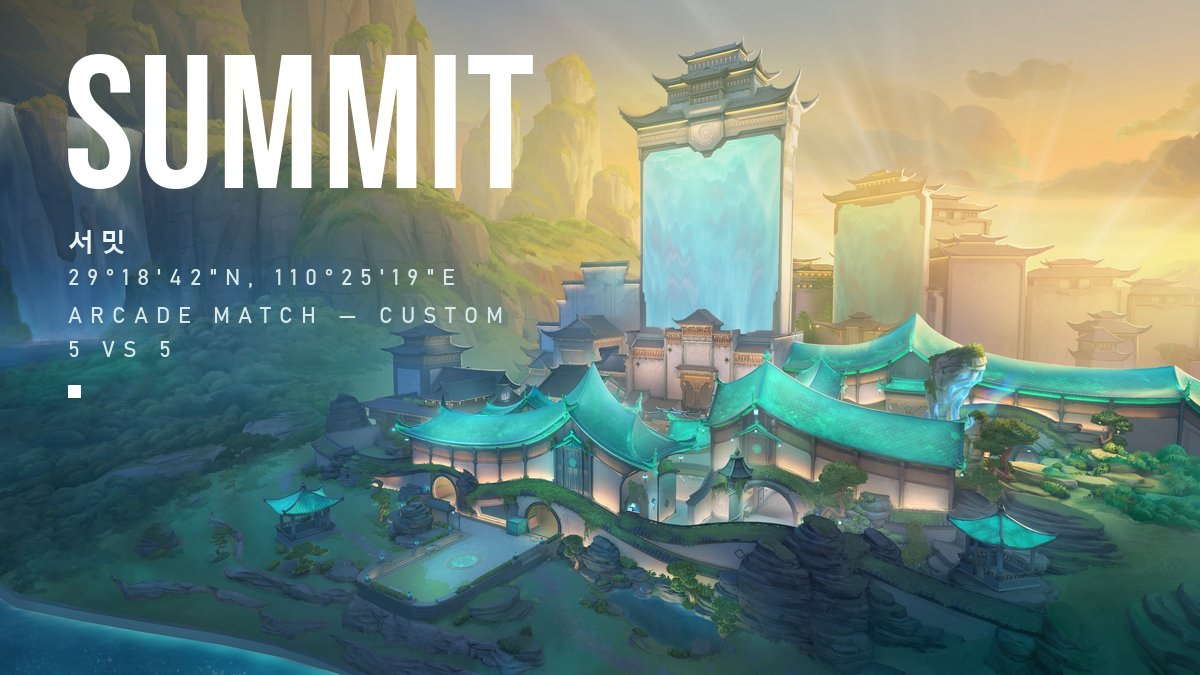
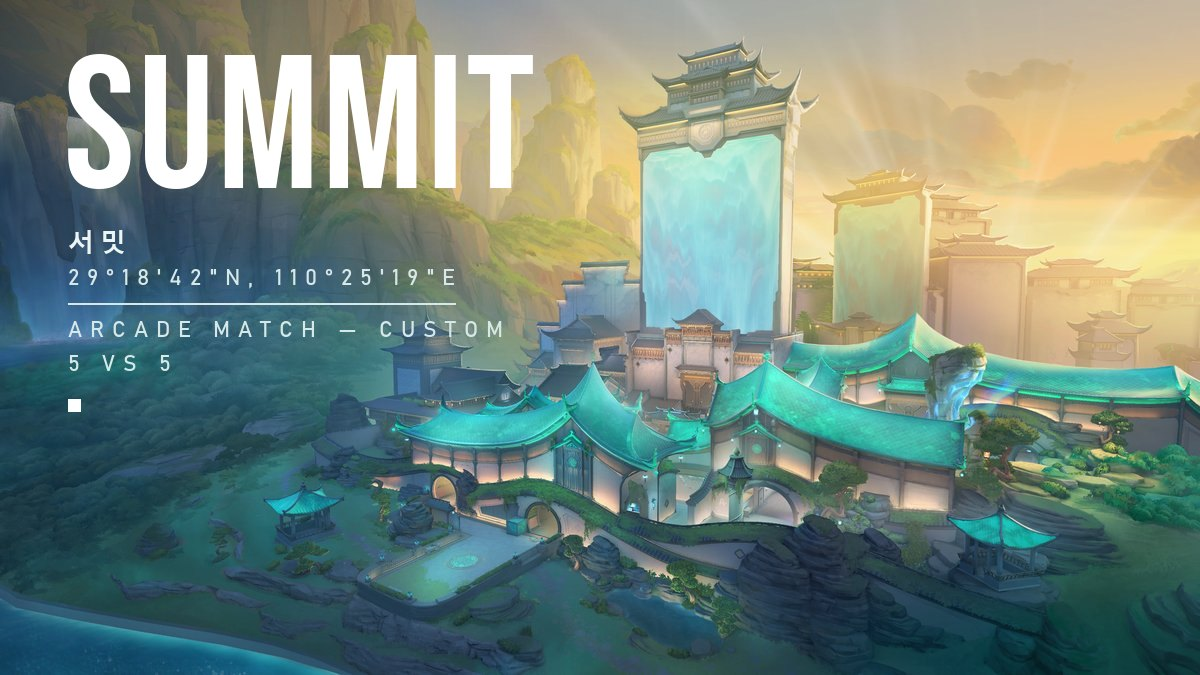
발로란트 맵 결과 이미지: 좌표 줄 밑에 구분선 추가

Changed region(s): [[0.0308, 0.4356, 0.2775, 0.6222], [0.3083, 0.4356, 0.4317, 0.4978]]

diff --git a/scripts/맵결과이미지.py b/scripts/맵결과이미지.py
@@ -303,8 +303,9 @@ def valorant(im, key, name):
     spaced(draw, (x0 + 4, base), name, kofont, (236, 244, 244, 235), 6)               # 한국어 이름(자간 넓게)
     y = base + 44
     if key in COORDS:                                                                          # 로딩 화면의 좌표 줄(맵의 실제 위치)
-        spaced(draw, (x0 + 4, y), COORDS[key], sub, (214, 232, 232, 215), 8)
-        y += 38
+        w = spaced(draw, (x0 + 4, y), COORDS[key], sub, (214, 232, 232, 215), 8)
+        draw.rectangle([x0 + 4, y + 36, x0 + 4 + w, y + 37], fill=(214, 232, 232, 120))  # 좌표 밑 구분선(좌표 글줄 너비만큼)
+        y += 52
     spaced(draw, (x0 + 4, y), 'ARCADE MATCH — CUSTOM', sub, (214, 232, 232, 200), 8)  # 인게임의 "STANDARD — CUSTOM" 자리
     spaced(draw, (x0 + 4, y + 34), '5 VS 5', sub, (214, 232, 232, 150), 8)                 # 인게임의 서버 이름(FRANKFURT) 자리, 윗줄보다 살짝 흐리게
     y += 80
